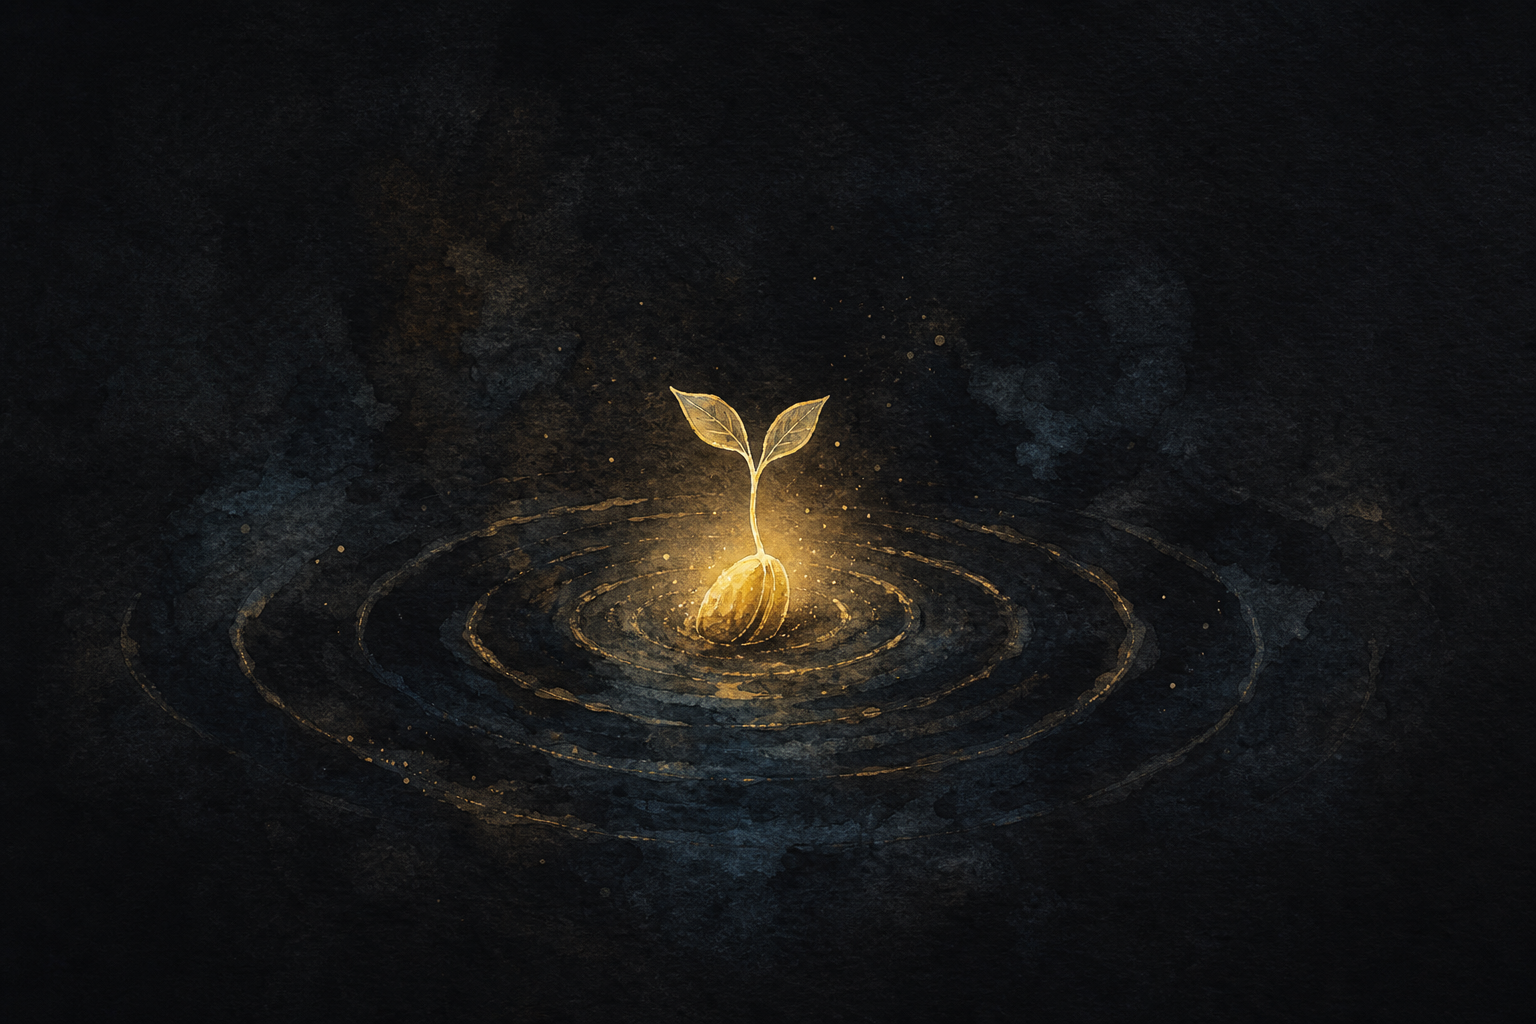
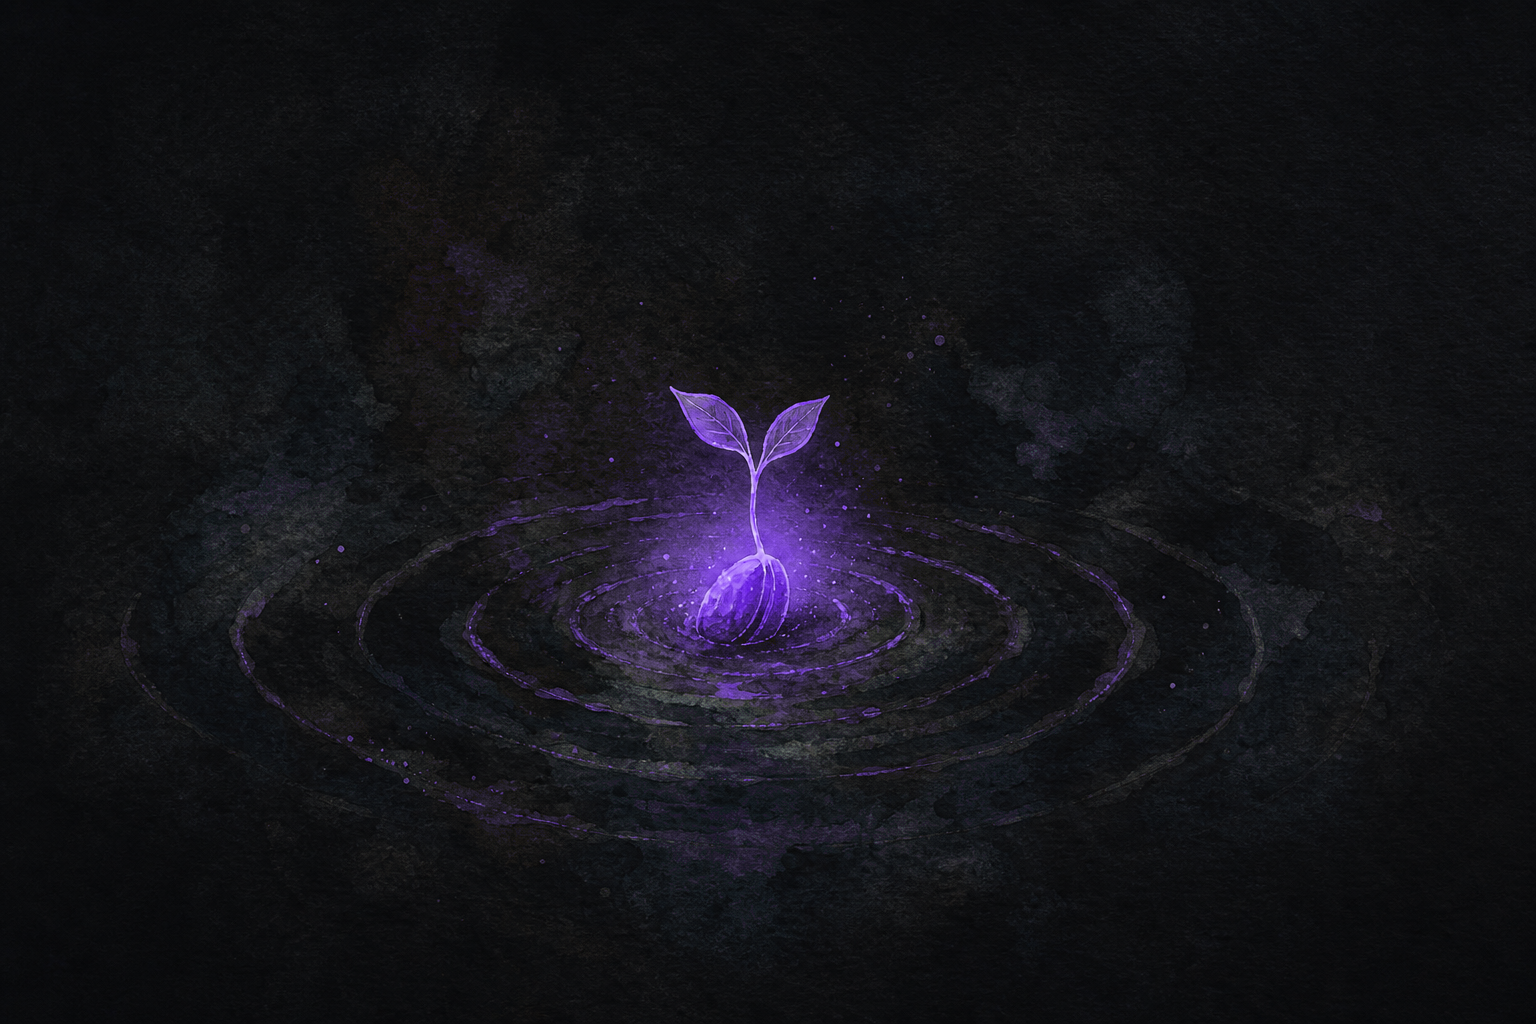
feat(realms): tint cards and chips by category, move crypto posts to pentacles

diff --git a/src/lib/realms.ts b/src/lib/realms.ts
@@ -4,6 +4,8 @@ export type Realm = {
   slug: RealmSlug;
   emoji: string;
   name: string;
+  /** Muted accent for dark UI (cards, chips) — readable, not loud */
+  accent: string;
   description: { vn: string; en: string };
 };
 
@@ -12,6 +14,7 @@ export const REALMS: Realm[] = [
     slug: 'forge',
     emoji: '⚒️',
     name: 'Forge',
+    accent: '#a89070',
     description: {
       vn: 'Nơi rèn năng lực: kỹ thuật, phần mềm, AI, kiến trúc hệ thống và mọi công cụ giúp con người xây dựng thế giới',
       en: 'Where capability is forged: software, AI, systems architecture, and every tool that helps people build the world',
@@ -21,6 +24,7 @@ export const REALMS: Realm[] = [
     slug: 'pentacles',
     emoji: '🪙',
     name: 'Pentacles',
+    accent: '#9a9568',
     description: {
       vn: 'Thế giới vật chất: tiền bạc, đầu tư, crypto, kinh tế và dòng tiền, nơi công cụ chuyển hóa thành tài sản',
       en: 'The material realm: money, investing, crypto, economics, and cash flow, where tools become assets',
@@ -30,6 +34,7 @@ export const REALMS: Realm[] = [
     slug: 'oracle',
     emoji: '🔮',
     name: 'Oracle',
+    accent: '#9088a0',
     description: {
       vn: 'Nơi mở rộng nhận thức: hội thoại với LLM, giả thuyết, triết học và những câu hỏi kỳ lạ',
       en: 'Where cognition expands: LLM dialogues, hypotheses, philosophy, and strange questions',
@@ -39,6 +44,7 @@ export const REALMS: Realm[] = [
     slug: 'all-blue',
     emoji: '🌊',
     name: 'All Blue',
+    accent: '#788ea0',
     description: {
       vn: 'Đích đến cuối cùng: tiểu thuyết, world building và mọi ý tưởng hội tụ thành một thế giới riêng',
       en: 'The final destination: fiction, world building, and every idea converging into a world of your own',

diff --git a/CLAUDE.md b/CLAUDE.md
@@ -128,8 +128,15 @@ If the user has attached/provided an image in their request, use that image dire
 
 - **Style**: Watercolor or acrylic painting on a dark canvas, iconic/symbolic composition — focus on one or two central symbols that represent the post's theme. Simple, clean, airy. Think editorial illustration, not photorealism
 - **Composition**: Minimalist, uncluttered — let the subject breathe with generous dark negative space. One focal symbol is better than a busy scene
-- **Palette**: Soft, glowing watercolor/luminous tones on a deep dark charcoal/black watercolor paper background (matching `#0b0b0f`). Light washes, gentle bleeds, gold/luminous outlines. Favor warm gold/earth tones, indigo, soft greens, and dusty rose
-- **Texture**: Visible dark rough watercolor paper grain, natural paint bleeds, subtle gold/luminous hand-drawn outlines. Should feel hand-painted, organic, and blend seamlessly with the website's dark mode
+- **Base**: Soft, glowing watercolor/luminous tones on a deep dark charcoal/black watercolor paper background (matching `#0b0b0f`). Light washes, gentle bleeds, luminous outlines
+- **Palette by category** (accent the luminous subject / washes; keep the canvas dark):
+  | Category | Accent mood |
+  |---|---|
+  | `"oracle"` | **Purple** — soft violet, lavender, indigo washes and outlines |
+  | `"pentacles"` | **Yellow / gold** — warm gold, amber, soft yellow luminous tones |
+  | `"forge"` | **Dark / ember** — charcoal, muted copper, low-key warm earth (current default look) |
+  | `"all-blue"` | **Blue** — soft sky/sea blue, teal-blue washes and outlines |
+- **Texture**: Visible dark rough watercolor paper grain, natural paint bleeds, subtle luminous hand-drawn outlines. Should feel hand-painted, organic, and blend seamlessly with the website's dark mode
 - **Avoid**: Pure white/light backgrounds (which cause harsh contrast blocks in dark mode), photorealistic renders, vibrant/neon colors, cluttered compositions, text overlays, heavy digital effects, futuristic/sci-fi looks
 - **Format**: Save as `cover.jpg` or `cover.png` in the post directory
 - **Full save path**: `src/content/blog/<slug>/cover.jpg` (or `.png`)

diff --git a/src/content/blog/bom-nguyen-tu-nhat-ban-sup-do-dong-dola/index.en.md b/src/content/blog/bom-nguyen-tu-nhat-ban-sup-do-dong-dola/index.en.md
@@ -4,7 +4,7 @@ title: "Atomic Bomb, Japan, and the Fall of the Dollar"
 summary: "Hey, it's him again. Is the fall of the US dollar really happening? Let's look at the causes, events, and outcomes from the perspective of a street scientist"
 author: "Tam Pham"
 cowriter: "@aethery"
-category: "forge"
+category: "pentacles"
 status: "published"
 date: "2023-08-23"
 cover: "./cover.jpg"

diff --git a/src/content/blog/bom-nguyen-tu-nhat-ban-sup-do-dong-dola/index.md b/src/content/blog/bom-nguyen-tu-nhat-ban-sup-do-dong-dola/index.md
@@ -3,7 +3,7 @@ slug: "bom-nguyen-tu-nhat-ban-sup-do-dong-dola"
 title: "Bom Nguyên Tử, Nhật Bản, và sự sụp đổ của đồng Đô La"
 summary: "Sự sụp đổ của đồng Đô La có thật sự đang diễn ra? Nguyên Nhân, Diễn Biến, và Kết quả dưới góc nhìn của một nhà khoa học đường phố 😅"
 author: "Tam Pham"
-category: "forge"
+category: "pentacles"
 status: "published"
 date: "2023-08-23"
 cover: "./cover.jpg"

diff --git a/src/content/blog/lunc-ve-dep-thuan-khiet/index.en.md b/src/content/blog/lunc-ve-dep-thuan-khiet/index.en.md
@@ -4,7 +4,7 @@ title: "LUNC: Pure Beauty"
 summary: "Hey, it's him again. LUNC: the grand collapse, the sleeping beast waiting to rise again, stronger than ever"
 author: "Tam Pham"
 cowriter: "@aethery"
-category: "forge"
+category: "pentacles"
 status: "published"
 date: "2024-07-01"
 cover: "./cover.webp"

diff --git a/src/content/blog/lunc-ve-dep-thuan-khiet/index.md b/src/content/blog/lunc-ve-dep-thuan-khiet/index.md
@@ -3,7 +3,7 @@ slug: "lunc-ve-dep-thuan-khiet"
 title: "LUNC, vẻ đẹp thuần khiết"
 summary: "LUNC, sự sụp đổ vĩ đại, con mãnh thú đang ngủ, chờ ngày được trỗi dậy, và trỗi dậy mạnh mẽ hơn bao giờ hết?"
 author: "Tam Pham"
-category: "forge"
+category: "pentacles"
 status: "published"
 date: "2024-07-01"
 cover: "./cover.webp"

diff --git a/src/content/blog/tan-the-gioi-rwa-eth-sol-sui/index.en.md b/src/content/blog/tan-the-gioi-rwa-eth-sol-sui/index.en.md
@@ -4,7 +4,7 @@ title: "The New World: RWA, ETH, SOL, and the Revolutionaries"
 summary: "Hey, it's him again. Like it or not, the world is standing at a critical turning point. The next four years will play a major role in shaping the world order for decades to come"
 author: "Tam Pham"
 cowriter: "@aethery"
-category: "forge"
+category: "pentacles"
 status: "published"
 date: "2024-11-20"
 cover: "./cover.jpg"

diff --git a/src/content/blog/tan-the-gioi-rwa-eth-sol-sui/index.md b/src/content/blog/tan-the-gioi-rwa-eth-sol-sui/index.md
@@ -3,7 +3,7 @@ slug: "tan-the-gioi-rwa-eth-sol-sui"
 title: "Tân thế giới: RWA, ETH, SOL và quân cách mạng"
 summary: "Dù muốn dù không, thế giới chúng ta đang sống đang đứng trước một bước ngoặc cực kỳ quan trọng. Bốn năm tiếp theo sẽ góp một phần quan trọng trong việc định hình lại trật tự thế giới trong nhiều thập kỷ tiếp theo."
 author: "Tam Pham"
-category: "forge"
+category: "pentacles"
 status: "published"
 date: "2024-11-20"
 cover: "./cover.jpg"

diff --git a/src/content/blog/usd-tran-chien-cuoi-cung-tan-the-gioi/index.en.md b/src/content/blog/usd-tran-chien-cuoi-cung-tan-the-gioi/index.en.md
@@ -4,7 +4,7 @@ title: "The US Dollar: The Final Battle and the Journey to the New World"
 summary: "Hey, it's him again. The US dollar is facing its final battle, a conflict that will usher human history into a new, exciting, and far more grand era: the New World"
 author: "Tam Pham"
 cowriter: "@aethery"
-category: "forge"
+category: "pentacles"
 status: "published"
 date: "2024-10-22"
 cover: "./cover.jpg"

diff --git a/src/content/blog/usd-tran-chien-cuoi-cung-tan-the-gioi/index.md b/src/content/blog/usd-tran-chien-cuoi-cung-tan-the-gioi/index.md
@@ -3,7 +3,7 @@ slug: "usd-tran-chien-cuoi-cung-tan-the-gioi"
 title: "Đồng ĐôLa - Trận Chiến Cuối Cùng và Hành Trình vào Tân Thế Giới"
 summary: "Đồng Đô La đang đối mặt với một trận chiến cuối cùng. Cuộc chiến sẽ đưa lich sử nhân loại bước sang một trang mới, thú vị, hoành tráng hơn rất nhiều, Tân Thế Giới"
 author: "Tam Pham"
-category: "forge"
+category: "pentacles"
 status: "published"
 date: "2024-10-22"
 cover: "./cover.jpg"